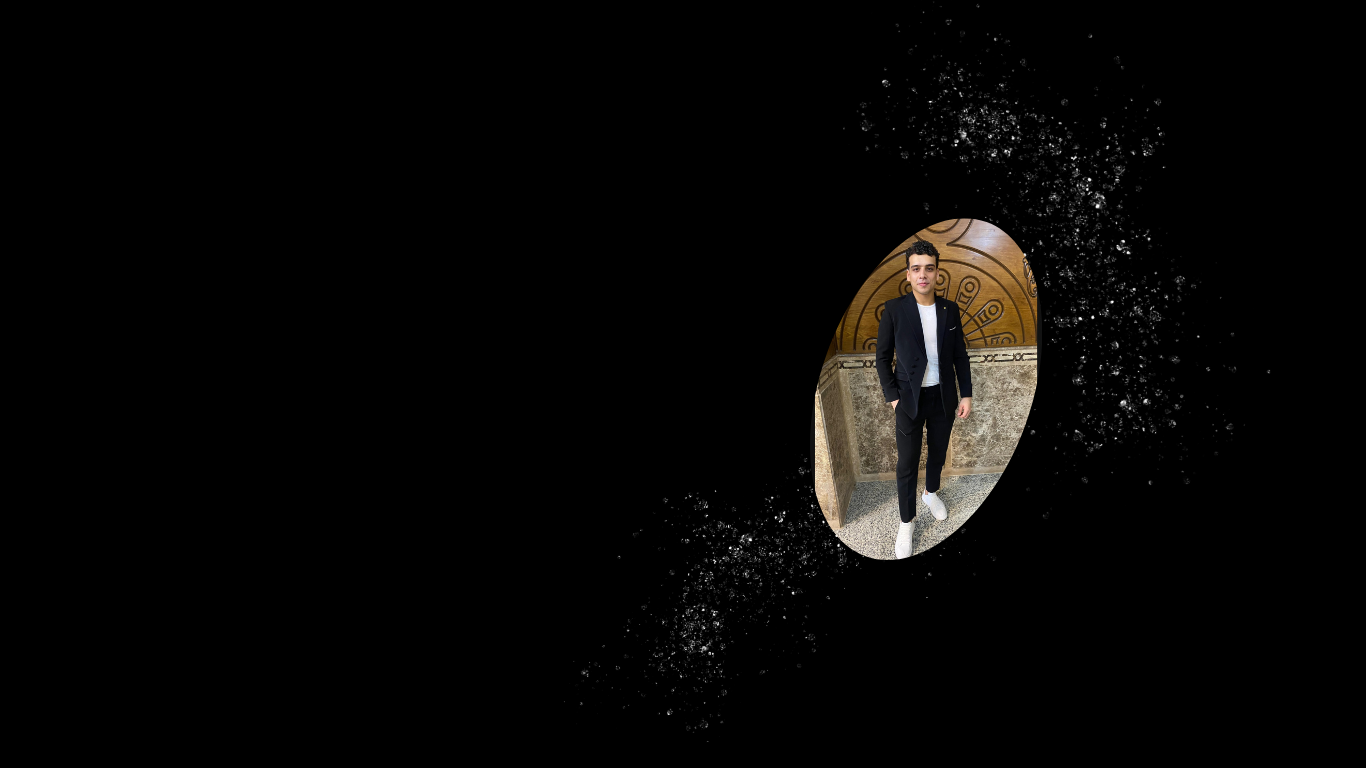
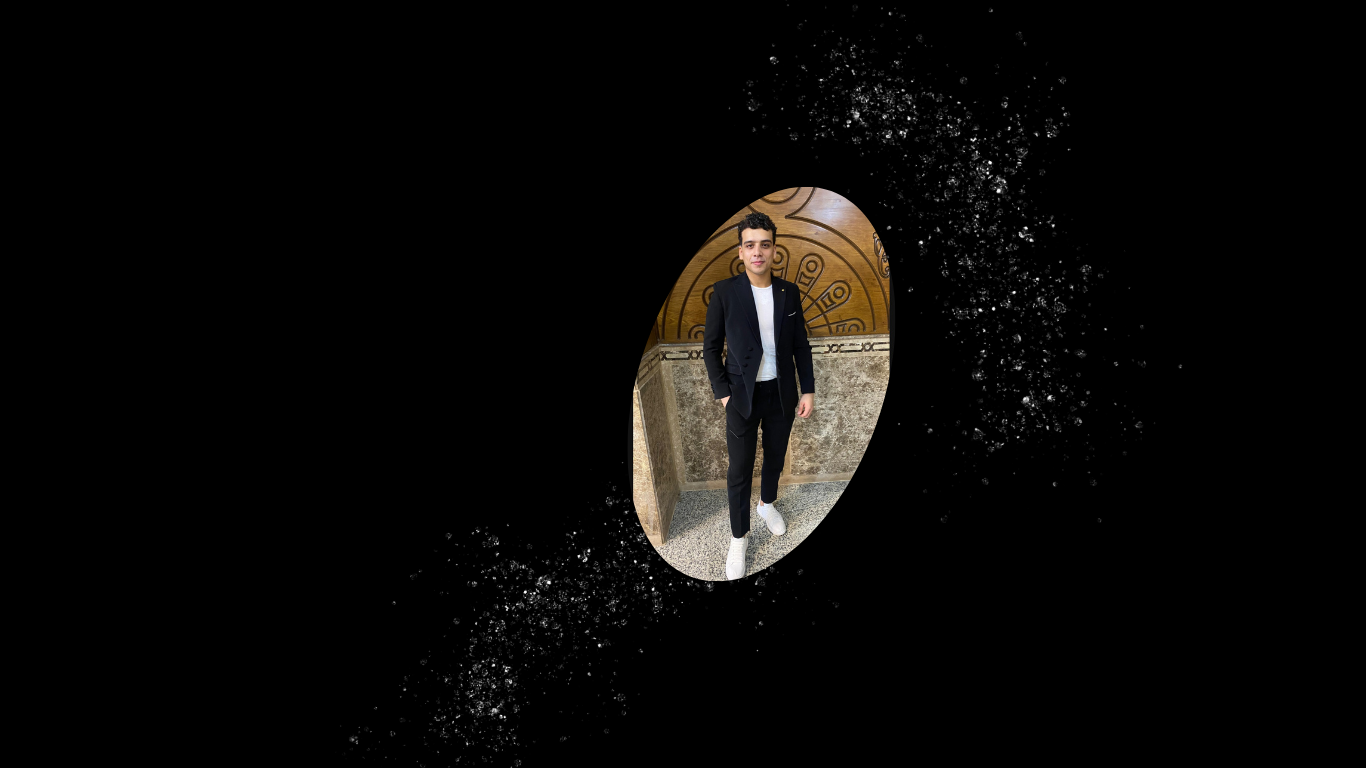
edit portoflio

Changed region(s): [[0.369, 0.0938, 0.8609, 0.875], [0.3382, 0.8125, 0.3997, 0.9375]]

diff --git a/templates/pages/index.html b/templates/pages/index.html
@@ -35,7 +35,7 @@
 <!-- start about -->
     <section class="about" id="about">
         <div class="about-img">
-            <img src="{%static 'img/about.png' %}" alt="">
+            <img src="{%static 'img/photo2.jpg' %}" alt="">
         </div>
         <div class="about-text">
             <h2>About<span>Me</span></h2>
@@ -52,10 +52,10 @@
 
 
 <!-- start services -->
+    <h1 class="sub-title">My <span>services</span></h1>
     <section>
         <div class="services" >
             <div class="container">
-                <h1 class="sub-title">My <span>services</span></h1>
                 <div class="services-list">
                     <div>
                         <i class='bx bx-code' style='color:#333333'></i>
@@ -170,7 +170,7 @@
                         </div>
                     </div>
                     <div class="row">
-                        <img src="{%static 'img/jobboard.jpg' %}">
+                        <img src="{%static 'img/job.jpg' %}">
                         <div class="layer">
                             <h5>job board
                             platform</h5>
@@ -183,7 +183,7 @@
                         </div>
                     </div>
                     <div class="row">
-                        <img src="{%static 'img/portfolio.png' %}">
+                        <img src="{%static 'img/por.png' %}">
                         <div class="layer">
                             <h5>Portfolio</h5>
                             <p>This is my portfolio, and I am the one who worked on it from A to Z.</p>

diff --git a/templates/parts/navbar.html b/templates/parts/navbar.html
@@ -1,5 +1,5 @@
 <header class="header">
-        <a href="#" class="logo">portfolio.</a>
+        <a href="#" class="logo">FAROUK.</a>
 
         <nav class="navbar">
             <a href="#home" style="--i:1;"class="active">Home</a>

diff --git a/project/static/stylesheet.css b/project/static/stylesheet.css
@@ -197,7 +197,7 @@ body {
 
 .sub-title {
     text-align: center;
-    font-size: 60px;
+    font-size: 50px;
     padding-bottom: 70px;
 }
 

diff --git a/static/stylesheet.css b/static/stylesheet.css
@@ -197,7 +197,7 @@ body {
 
 .sub-title {
     text-align: center;
-    font-size: 60px;
+    font-size: 50px;
     padding-bottom: 70px;
 }
 
